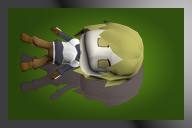
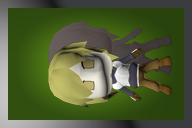
特殊カード位置修正

diff --git a/Assets/Scripts/Manager/GameUIManager.cs b/Assets/Scripts/Manager/GameUIManager.cs
@@ -166,13 +166,13 @@ public class GameUIManager : MonoBehaviour
         //Player1
         for (int i = 0; i < 3; i++)
         {
-            SelectSpecialUIManager.SPECIALCARD_NUMBER_1[i] = 1;
             GameObject specialObj = MyUtility.CreateImage(
                 "SpecialCards",
                 "UI/Result/card" + SelectSpecialUIManager.SPECIALCARD_NUMBER_1[i].ToString(),
                 new Vector2(0.4f / 32.0f, (10.4f - (i * 2.7f)) / 25.0f),
                 new Vector2(2.8f / 32.0f, (12.1f - (i * 2.7f)) / 25.0f),
                 canvasTransForm);
+            specialObj.GetComponent<RectTransform>().pivot = new Vector2(0, 0);
             SpecialCardsBehavior spCardbehavior = specialObj.AddComponent<SpecialCardsBehavior>();
             spCardbehavior.UseOrder = 1 + i;
             spCardbehavior.SpecialButton = obj.GetComponent<SpecialCardButton>();
@@ -200,13 +200,13 @@ public class GameUIManager : MonoBehaviour
         //Player2
         for (int i = 0; i < 3; i++)
         {
-            SelectSpecialUIManager.SPECIALCARD_NUMBER_2[i] = 1;
             GameObject specialObj = MyUtility.CreateImage(
                 "SpecialCards",
                 "UI/Result/2card" + SelectSpecialUIManager.SPECIALCARD_NUMBER_1[i].ToString(),
                 new Vector2(29.3f / 32.0f, (12.9f + (i * 2.7f)) / 25.0f),
                 new Vector2(31.7f / 32.0f, (14.6f + (i * 2.7f)) / 25.0f),
                 canvasTransForm);
+            specialObj.GetComponent<RectTransform>().pivot = new Vector2(1, 1);
             SpecialCardsBehavior spCardbehavior = specialObj.AddComponent<SpecialCardsBehavior>();
             spCardbehavior.UseOrder = 1 + i;
             spCardbehavior.SpecialButton = obj.GetComponent<SpecialCardButton>();
